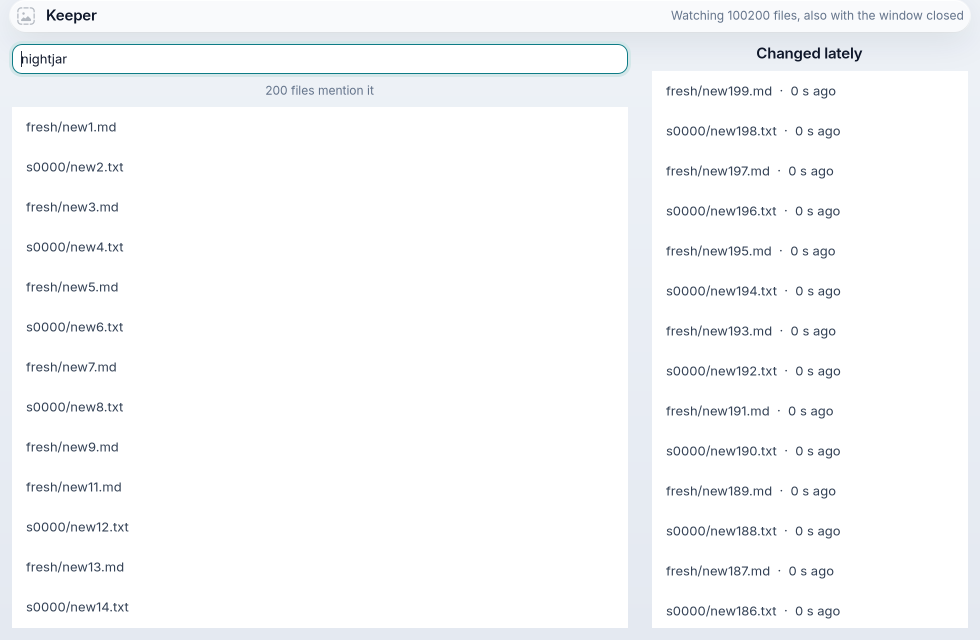
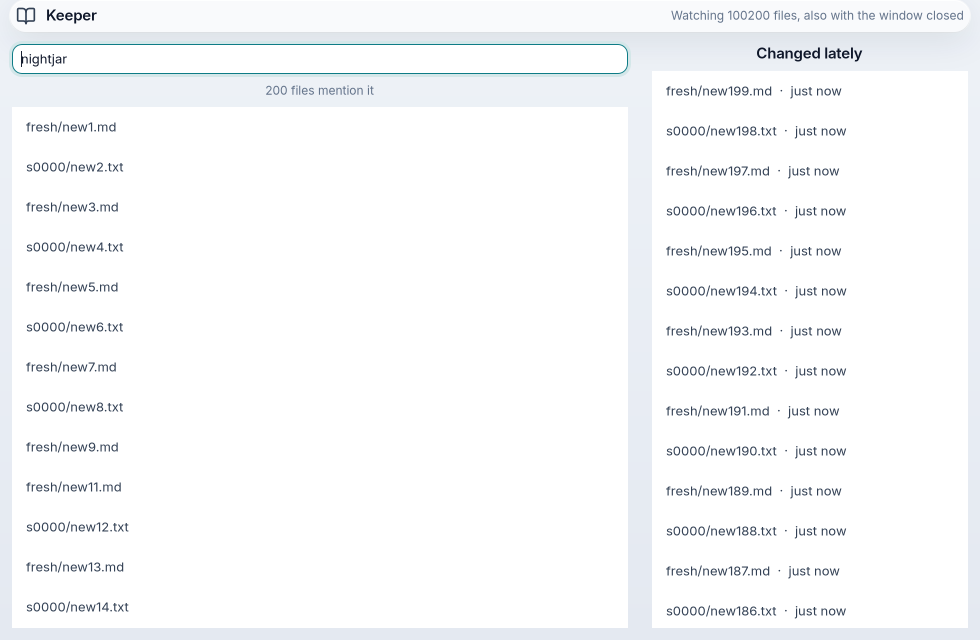
Goal 45: report (PASS M0–M4), gallery numbers and screenshot from the final run

diff --git a/docs/gallery/index.html b/docs/gallery/index.html
@@ -172,6 +172,7 @@
         <p>Measured headless (Xvfb, cairo): 10,000 notes written by a background job (<code>start_ui_job</code>) (a paragraph each; the checker wants the seed to take at least 200 ms, twice its gap limit) while the window kept painting, 479 frames in 8 s with the longest gap 33 ms; then 50 searches as you type, p95 0.3 ms for the FTS5 query (the list's repaint isn't in that number), each count equal to Python's own FTS5 count on the same file. Quit while typing, relaunch, and the last words are there. </p>
         <p><b>The race, 1,000,000 notes</b> (<code>scripts/jot_race.py</code> → <code>docs/goals/42/race.json</code>): the same fixed-seed notes, Jot's schema and search SQL, SQLite 3.53.4 on both sides. Native <code>mojoui.sqlite</code> against the browser's best, the official SQLite WebAssembly build (<code>@sqlite.org/sqlite-wasm</code> 3.53.4-build2) in a Worker on OPFS (<code>opfs-sahpool</code>, faster than <code>opfs</code>; both tried) in headless Chromium 152. Median of 3 runs after a warm-up, spread in brackets: search as you type over 200 prefixes, p95 <b>64.6 ms</b> (64.5–68.5) native vs <b>165.8 ms</b> (163.9–167.0) in the browser, 2.6× faster; p50 14.1 vs 37.4 ms; cold open (start → the first query answered on the existing file) <b>66 ms</b> (66–71) vs <b>435 ms</b> (429–448), 6.6× faster, and that leaves out the browser's own launch; build (1M inserts + the FTS5 index) 35.9 s vs 56.6 s (<code>opfs</code>: 122.5 s); on disk 528 vs 519 MB (the browser is smaller: OPFS can't use WAL, so it uses SQLite's rollback journal). Every query gave the same count on both sides. Measured on a Ryzen 9 5900X, load about 2, page cache warm on both.</p>
         <p>Checked by <code>docs/goals/42-check.py</code>. Not driven: GTK's real save dialog and a drag from a real file manager (the checks hand in the path and the file list); the Mac is built, not yet run, and has no save dialog or file drop yet.</p>
+
   <article class="card" data-kind="native" id="works-when-closed">
     <div class="head"><h2>Works when closed · Keeper keeps a folder searchable with its window shut</h2><span class="tag native">Native wins</span>
       <span class="src"><a href="https://github.com/abhisheksreesaila/omxcode/tree/main/examples/keeper">examples/keeper/</a></span></div>
@@ -180,9 +181,9 @@
         <figure><img src="img/keeper-gtk.png" alt="Keeper in a native Linux window, Liquid theme: the search field reads nightjar and says 200 files mention it, the results list files like fresh/new1.md, and a Changed lately column lists the files written while the window was closed" loading="lazy"><figcaption>Linux (GTK): the window was closed, 200 notes were written into the folder, Keeper indexed each within milliseconds and raised a notification for the ones with the alert word; the tray item opened the window again and a search finds them all.</figcaption></figure>
       </div>
       <div class="why">
-        <p>Four library parts, each with its own test: <code>mojoui.watch</code> (a folder watcher: inotify on a thread of its own, new folders followed, one event per change), background mode (<code>App.background()</code>: closing the window hides it and the app keeps running), a tray item (<code>mojoui.tray</code>, a StatusNotifierItem on the session bus; clicking it opens the window) and <code>mojoui.notify</code>. <code>examples/keeper</code> composes them with <code>mojoui.sqlite</code>: an FTS5 index of every text and Markdown file under a folder, a search field and what changed lately. The first scan of 100,000 files ran as a job in 3.1 s with the window painting; with the window closed, 200 new files were searchable p95 4.4 ms after they were written.</p>
+        <p>Four library parts, each with its own test: <code>mojoui.watch</code> (a folder watcher: inotify on a thread of its own, new folders followed, one event per change), background mode (<code>App.background()</code>: closing the window hides it and the app keeps running), a tray item (<code>mojoui.tray</code>, a StatusNotifierItem on the session bus; clicking it opens the window) and <code>mojoui.notify</code>. <code>examples/keeper</code> composes them with <code>mojoui.sqlite</code>: an FTS5 index of every text and Markdown file under a folder, a search field and what changed lately. The first scan of 100,000 files ran as a job in 1.9 s with the window painting; with the window closed, 200 new files were searchable p95 1.9 ms after they were written.</p>
         <p><b>What the web can do of it</b>, tried for real in headless Chromium 152.0.7977.82 by <code>scripts/keeper_web.py</code> (<code>docs/goals/45/web.json</code>; FileSystemObserver turned on by flag, permissions granted through the DevTools protocol, the tab closed with the browser still running, which is kinder to the web than a person quitting it):</p>
-        <table class="race"><tr><th></th><th>omxcode (Keeper)</th><th>The web's best, with evidence</th></tr><tr><th>Read a folder</th><td>reads and indexes all 100,000 files in 3.1 s, no click (KEEPER_DIR)</td><td><b>Yes</b>: Only after a click: without one, SecurityError; with one, the web read the 100,000 files in 47.4 s (reading only)<br><small>no gesture: SecurityError: Failed to execute &#x27;showDirectoryPicker&#x27; on &#x27;Window&#x27;: Must be handling a user gesture to show a file picker.; with a DevTools gesture: picker AbortError: Failed to execute &#x27;showDirectoryPicker&#x27; on &#x27;Window&#x27;: Intercepted by Page.setInterceptFileChooserDialog()., drop handle True, webkitdirectory True</small></td></tr><tr><th>Notice a change</th><td>inotify on its own thread, p95 0.01 ms, window open or closed</td><td><b>Yes</b>: Only while the tab is open, on a dropped folder: FileSystemObserver p95 1.8 ms, 1 of 200 changes missed<br><small>{&quot;FileSystemObserver&quot;: {&quot;started&quot;: &quot;observing&quot;, &quot;seen&quot;: 199, &quot;of&quot;: 200, &quot;p95_ms&quot;: 1.839, &quot;p50_ms&quot;: 0.204, &quot;clock_offset_rtt_ms&quot;: 0.38, &quot;missed&quot;: [&quot;obs/c0.md&quot;], &quot;lag_over&quot;: &quot;the changes it reported (a miss is listed, not counted as a lag)&quot;}, &quot;polling&quot;: {&quot;best&quot;: {&quot;every_ms&quot;: 10, &quot;seen&quot;: 100, &quot;of&quot;: 100, &quot;p95_ms&quot;: 95.914}, &quot;how&quot;: &quot;the dropped folder&#x27;s handle walked every N ms; new names timed&quot;}}</small></td></tr><tr><th>Run with the tab closed</th><td>keeps indexing with the window closed: 200 files, p95 4.4 ms</td><td><b>No</b>: No: with the tab closed its worker got no event when a file changed or a minute passed<br><small>after closing the tab: 0 worker events after a file change, 0 in 75 s; going online then gave [&quot;sync keeper-change clients=0 folder=[NotAllowedError: The request is not allowed by the user agent or the platform in the current context.] notify=[TypeError: Failed to execute &#x27;showNotification&#x27; on &#x27;ServiceWorkerRegistration&#x27;: No notification permission has been granted for this origin.]&quot;]</small></td></tr><tr><th>Notify with the tab closed</th><td>a notification for each alert file, window closed (seen on the bus)</td><td><b>No</b>: No: a worker can show one only while it handles an event, and nothing woke it<br><small>{&quot;notifications_from_file_changes_or_time&quot;: [], &quot;what_a_worker_could_do_when_woken&quot;: [&quot;sync keeper-change clients=0 folder=[NotAllowedError: The request is not allowed by the user agent or the platform in the current context.] notify=[TypeError: Failed to execute &#x27;showNotification&#x27; on &#x27;ServiceWorkerRegistration&#x27;: No notification permission has been granted for this origin.]&quot;], &quot;why&quot;: &quot;a worker may only show one while…</small></td></tr><tr><th>An item in the tray</th><td>a StatusNotifierItem; clicking it opens the window</td><td><b>No</b>: No: there is no web API for one<br><small>{&quot;tray_like_names_in_window_and_navigator&quot;: [&quot;statusbar&quot;], &quot;setAppBadge_offered&quot;: true, &quot;note&quot;: &quot;no web API puts an item in the system tray (&#x27;statusbar&#x27; is the browser window&#x27;s own status bar, a BarProp); the Badging API marks an installed app&#x27;s own icon&quot;}</small></td></tr></table>
+        <table class="race"><tr><th></th><th>omxcode (Keeper)</th><th>The web's best, with evidence</th></tr><tr><th>Read a folder</th><td>reads and indexes all 100,000 files in 1.9 s, no click (KEEPER_DIR)</td><td><b>Yes</b>: Only after a click: without one, SecurityError; with one, the web read the 100,000 files in 47.4 s (reading only)<br><small>no gesture: SecurityError: Failed to execute &#x27;showDirectoryPicker&#x27; on &#x27;Window&#x27;: Must be handling a user gesture to show a file picker.; with a DevTools gesture: picker AbortError: Failed to execute &#x27;showDirectoryPicker&#x27; on &#x27;Window&#x27;: Intercepted by Page.setInterceptFileChooserDialog()., drop handle True, webkitdirectory True</small></td></tr><tr><th>Notice a change</th><td>inotify on its own thread, p95 0.01 ms, window open or closed</td><td><b>Yes</b>: Only while the tab is open, on a dropped folder: FileSystemObserver p95 1.8 ms, 1 of 200 changes missed<br><small>{&quot;FileSystemObserver&quot;: {&quot;started&quot;: &quot;observing&quot;, &quot;seen&quot;: 199, &quot;of&quot;: 200, &quot;p95_ms&quot;: 1.839, &quot;p50_ms&quot;: 0.204, &quot;clock_offset_rtt_ms&quot;: 0.38, &quot;missed&quot;: [&quot;obs/c0.md&quot;], &quot;lag_over&quot;: &quot;the changes it reported (a miss is listed, not counted as a lag)&quot;}, &quot;polling&quot;: {&quot;best&quot;: {&quot;every_ms&quot;: 10, &quot;seen&quot;: 100, &quot;of&quot;: 100, &quot;p95_ms&quot;: 95.914}, &quot;how&quot;: &quot;the dropped folder&#x27;s handle walked every N ms; new names timed&quot;}}</small></td></tr><tr><th>Run with the tab closed</th><td>keeps indexing with the window closed: 200 files, p95 1.9 ms</td><td><b>No</b>: No: with the tab closed its worker got no event when a file changed or a minute passed<br><small>after closing the tab: 0 worker events after a file change, 0 in 75 s; going online then gave [&quot;sync keeper-change clients=0 folder=[NotAllowedError: The request is not allowed by the user agent or the platform in the current context.] notify=[TypeError: Failed to execute &#x27;showNotification&#x27; on &#x27;ServiceWorkerRegistration&#x27;: No notification permission has been granted for this origin.]&quot;]</small></td></tr><tr><th>Notify with the tab closed</th><td>a notification for each alert file, window closed (seen on the bus)</td><td><b>No</b>: No: a worker can show one only while it handles an event, and nothing woke it<br><small>{&quot;notifications_from_file_changes_or_time&quot;: [], &quot;what_a_worker_could_do_when_woken&quot;: [&quot;sync keeper-change clients=0 folder=[NotAllowedError: The request is not allowed by the user agent or the platform in the current context.] notify=[TypeError: Failed to execute &#x27;showNotification&#x27; on &#x27;ServiceWorkerRegistration&#x27;: No notification permission has been granted for this origin.]&quot;], &quot;why&quot;: &quot;a worker may only show one while…</small></td></tr><tr><th>An item in the tray</th><td>a StatusNotifierItem; clicking it opens the window</td><td><b>No</b>: No: there is no web API for one<br><small>{&quot;tray_like_names_in_window_and_navigator&quot;: [&quot;statusbar&quot;], &quot;setAppBadge_offered&quot;: true, &quot;note&quot;: &quot;no web API puts an item in the system tray (&#x27;statusbar&#x27; is the browser window&#x27;s own status bar, a BarProp); the Badging API marks an installed app&#x27;s own icon&quot;}</small></td></tr></table>
         <p>Where the web can do a thing it's only while its tab is open, and only on a folder the person dropped or picked; there native is faster by more than twice (reading the corpus: native also indexes it, the web only reads it). Checked by <code>docs/goals/45-check.py</code> on a private D-Bus with no services and a headless display. Not run: the Mac (FSEvents and UNUserNotificationCenter built, not run; no NSStatusItem or background mode there yet).</p>
       </div>
     </div>

diff --git a/docs/goals/45-report.md b/docs/goals/45-report.md
@@ -1,0 +1,38 @@
+# Goal 45 report: Keeper, still working when the window is closed
+
+**Verdict: PASS, M0–M4** (`pixi run python docs/goals/45-check.py`, final run on branch `goal-45-keeper`). Native does all five
+things Keeper needs; the web does two of them, only while its tab is open and only on a folder a person dropped or picked,
+and loses both races by far more than 2×. Three it can't do at all, with evidence. Reviewer: not run yet (see open items).
+
+## What native did (final checker run)
+| | Result |
+|---|---|
+| M0 folder watcher (`mojoui/watch.mojo`) | 1,000 changes (400 creates in 10 new nested folders, 200 modifies, 200 renames, 200 deletes), each reported once, none twice; p95 lag 0.01 ms (max 21 ms), close → event on CLOCK_MONOTONIC, computed by the checker; inotify read on its own thread (tid ≠ main) |
+| M1 alive without a window | traycheck: window closed by the `quit` step, the process kept running; `org.kde.StatusNotifierItem-<pid>-1` on a private bus; `Activate` reopened the window (`WINDOW: open`); `Notify` with the app's random token seen on `dbus-monitor`; without background mode it still exits |
+| M2 examples/keeper | (a) 100,000 files scanned and indexed as a job in 1.9 s: 2,400 frames, longest gap 16.7 ms; (b) window closed: 200 new files searchable p95 1.9 ms, all found by Python's sqlite3, 20 alert files each named in a notification, no quiet file named; (c) Activate reopened it, typed search shows the 200; screenshot `docs/goals/45/keeper-gtk.png` |
+| M3 the web, measured | web.json fresh for its commit; every entry and try has evidence; native wins both races |
+| M4 gallery and library | "Works when closed" + "Why not just WebGPU?" (42's and 43's race numbers); components.md rows (GTK ✅; Mac FSEvents/UNUserNotificationCenter 🔨; NSStatusItem/background mode ❌); llms.txt names `mojoui.watch`; EXPERIMENTS newest entry; `scripts/build.sh keeper mac` builds |
+
+## What the web could and couldn't (headless Chromium 152, `docs/goals/45/web.json`)
+| Thing | Web | Evidence |
+|---|---|---|
+| Read a folder | only after a click | `showDirectoryPicker()` without a gesture: SecurityError. With a DevTools gesture: the picker opens (`Page.fileChooserOpened`, mode selectSingle) but intercepting it aborts it, and headless nobody can answer it; a folder dropped through `Input.dispatchDragEvent` gives a directory handle; `<input webkitdirectory>` through `DOM.setFileInputFiles` gives a File snapshot. Reading the 100k corpus: 47.4 s through the handle (input: ~116 s), against native's 1.9 s that also indexes it |
+| Notice a change | only with the tab open, on that dropped folder | FileSystemObserver (on by flag) p95 1.8 ms over 199 of 200 changes (missed the first file in a new subfolder); polling every 50 ms p95 ~126 ms. Native 0.01 ms |
+| Run with the tab closed | no | a service worker with Background Sync (registered while offline) and Periodic Sync (permission granted via `Browser.setPermission`, registered, tag listed): no worker event after a file change or in 75 s after the tab closed. The held sync ran when the network came back (a network event, not a file change) and then couldn't read the stored folder handle (NotAllowedError) or show a notification |
+| Notify with the tab closed | no | nothing woke the worker; when the network did, `showNotification` refused ("No notification permission", even after the grant: headless) |
+| Tray item | no | no tray-like API in window/navigator (`statusbar` is the window's BarProp); Badging API exists but marks an installed app's icon |
+
+Fairness notes: the tab was closed with the browser still running (kinder to the web than quitting it); the web's folder read is
+read-only while native's scan also indexes; the watch race compares M0's workload (1,000 changes, 2 ms apart) with the web's
+200 creates 20 ms apart; the web's lag uses a wall-clock offset measured by round trips (RTT ~0.4 ms).
+
+## Open items
+- Reviewer subagent not run in this session.
+- Mac: FSEvents watcher and UNUserNotificationCenter built, not run; no permission request (needs a block); no NSStatusItem and no background mode in the AppKit host (it still quits when its last window closes); the watcher's wake on the Mac is not wired (poll take() on a timer).
+- No tray menu (com.canonical.dbusmenu), so a background Keeper is quit only by ending the process; no real panel was used (only the bus).
+- FSEvents doesn't pair rename halves; the Linux `file_stamp` stat offsets are x86-64 only.
+- web.json's notification permission inside the worker stayed refused in headless Chromium despite the grant.
+
+## Unverified
+- Anything on a real desktop panel/notification server (all checks on a private bus with no services).
+- The Mac at run time; Linux on non-x86-64.

diff --git a/EXPERIMENTS.md b/EXPERIMENTS.md
@@ -6,8 +6,8 @@ A dated record of what was tried, what happened, and what it means. Newest first
 
 ## Goal 45: Keeper, still working when the window is closed (2026-10-30)
 - **Setup:** branch `goal-45-keeper` from main 7d747de, worktree ../mojo-ui-g45; contract docs/goals/45-GOAL.md + 45-check.py (written first, baseline FAIL on every milestone). Headless Xvfb, a private D-Bus per run (`dbus-run-session` with a config that has no services, D-1606), temp folders only. No GPU.
-- **Worked:** `mojoui/watch.mojo` (FolderWatcher: inotify on its own pthread, events through a pipe, a file reported once at its close, new folders watched then listed; 1,000 changes each reported once, p95 lag 0.01 ms); background mode (`App.background()`, `App.window_shown()`; GTK hides the window and holds the app); `mojoui/tray.mojo` (StatusNotifierItem over GDBus, Activate opens the window); `mojoui/notify.mojo` (org.freedesktop.Notifications); `mojoui/dbus.mojo` (GDBus by address, GVariant text); a `waitopen:N` step and a `WINDOW: open` line; `examples/traycheck`; `examples/keeper` (100,000 files scanned in ~3 s as a job, longest frame gap ~17 ms; with the window closed 200 files searchable p95 ~4 ms, alerts on the bus; Activate reopens it and a search shows them).
-- **The web (docs/goals/45/web.json, headless Chromium 152):** a folder only after a click (no gesture: SecurityError; the intercepted picker can't be answered; a folder dropped through the DevTools protocol gives a handle, and reading the 100k corpus took ~46–63 s against native's ~3 s read+index); FileSystemObserver works on that handle while the tab is open (p95 ~0.5–1.7 ms, the first file in a new subfolder missed) against native's 0.01 ms; with the tab closed, Background Sync and Periodic Sync (granted, registered) gave no worker event for a file change or a minute; the held sync ran only when the network came back, and then couldn't read the folder (NotAllowedError) or show a notification; no tray API.
+- **Worked:** `mojoui/watch.mojo` (FolderWatcher: inotify on its own pthread, events through a pipe, a file reported once at its close, new folders watched then listed; 1,000 changes each reported once, p95 lag 0.01 ms); background mode (`App.background()`, `App.window_shown()`; GTK hides the window and holds the app); `mojoui/tray.mojo` (StatusNotifierItem over GDBus, Activate opens the window); `mojoui/notify.mojo` (org.freedesktop.Notifications); `mojoui/dbus.mojo` (GDBus by address, GVariant text); a `waitopen:N` step and a `WINDOW: open` line; `examples/traycheck`; `examples/keeper` (100,000 files scanned in 1.9–3.1 s as a job, longest frame gap 16.7 ms; with the window closed 200 files searchable p95 1.9–4.4 ms, alerts on the bus; Activate reopens it and a search shows them).
+- **The web (docs/goals/45/web.json, headless Chromium 152):** a folder only after a click (no gesture: SecurityError; the intercepted picker can't be answered; a folder dropped through the DevTools protocol gives a handle, and reading the 100k corpus took ~46–63 s against native's 1.9–3.1 s read+index); FileSystemObserver works on that handle while the tab is open (p95 ~0.5–1.7 ms, the first file in a new subfolder missed) against native's 0.01 ms; with the tab closed, Background Sync and Periodic Sync (granted, registered) gave no worker event for a file change or a minute; the held sync ran only when the network came back, and then couldn't read the folder (NotAllowedError) or show a notification; no tray API.
 - **Broke and fixed:** the private bus with the system's config started xdg-desktop-portal, which reached the owner's Wayland display: the checker now uses a bus with no services and no display variables (D-1606); the engine declares pthread_create its own way (looked up by address, D-1609); `mojo run` can't load mojoui.jobs' engine, so the watcher wakes the host's pipe itself (D-1604).
 - **Means:** the first "the web can't do this at all" probe: reach, not speed. Unverified: the Mac (FSEvents, UNUserNotificationCenter built, not run; NSStatusItem and background mode not built), a real panel showing the tray item (only the bus), a tray menu.
 
